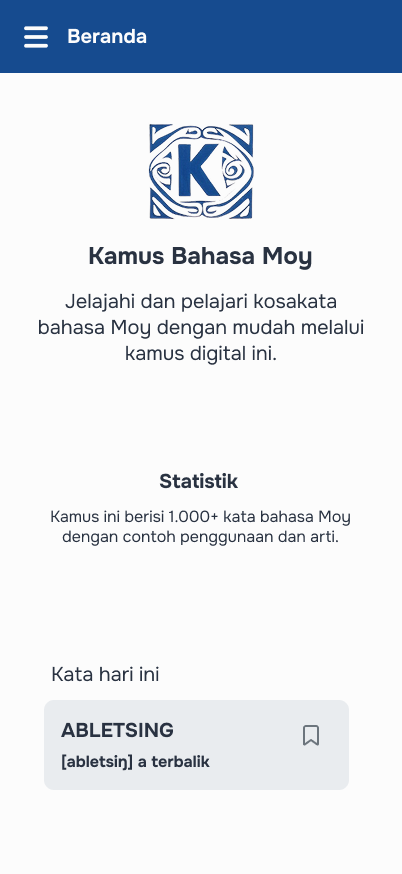
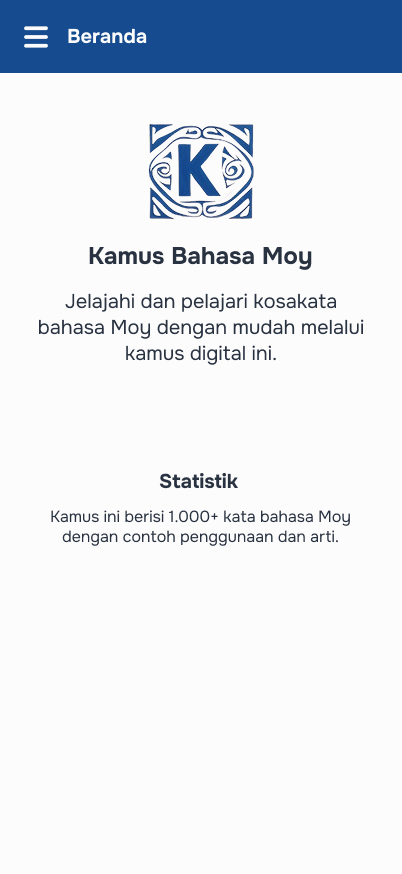
refactor: update README and remove favorites screen assets

diff --git a/README.md b/README.md
@@ -24,8 +24,6 @@ Kamus Bahasa Moy adalah aplikasi mobile yang dikembangkan untuk membantu melesta
 
 - **Kamus Komprehensif**: Berisi lebih dari 2.500+ kata bahasa Moy dengan arti, pengucapan, dan kelas kata
 - **Penelusuran Abjad**: Cari kata berdasarkan abjad dengan navigasi yang mudah
-- **Kata Favorit**: Simpan kata-kata yang ingin dipelajari lebih lanjut
-- **Kata Hari Ini**: Mempelajari kata baru setiap hari
 - **Contoh Kalimat**: Setiap kata dilengkapi dengan contoh penggunaan dalam kalimat bahasa Moy dan terjemahan Bahasa Indonesia
 - **Klasifikasi Kelas Kata**: Identifikasi jenis kata (nomina, verba, adjektiva, dll)
 - **Tampilan Responsif**: Desain yang nyaman digunakan pada berbagai ukuran layar
@@ -44,9 +42,9 @@ Kamus Bahasa Moy adalah aplikasi mobile yang dikembangkan untuk membantu melesta
       <td><img src="assets/screenshots/home-screen.png" alt="Home Screen" width="200"/></td>
     </tr>
     <tr>
+      <td><img src="assets/screenshots/drawer-menu-screen.png" alt="Drawer Menu" width="200"/></td>
       <td><img src="assets/screenshots/vocabulary-screen.png" alt="Vocabulary" width="200"/></td>
       <td><img src="assets/screenshots/vocabulary-detail-screen.png" alt="Detail Screen" width="200"/></td>
-      <td><img src="assets/screenshots/favorites-screen.png" alt="Favorites" width="200"/></td>
     </tr>
   </table>
 </div>
